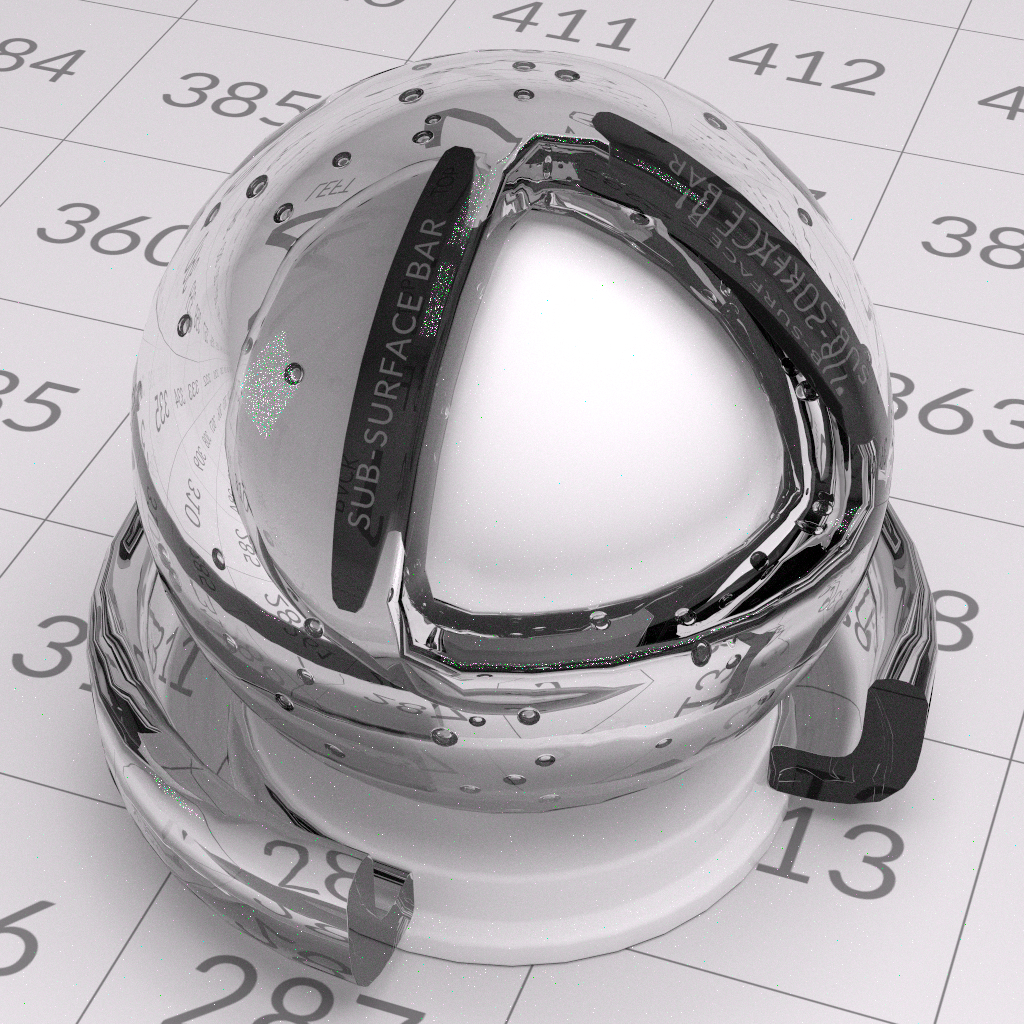
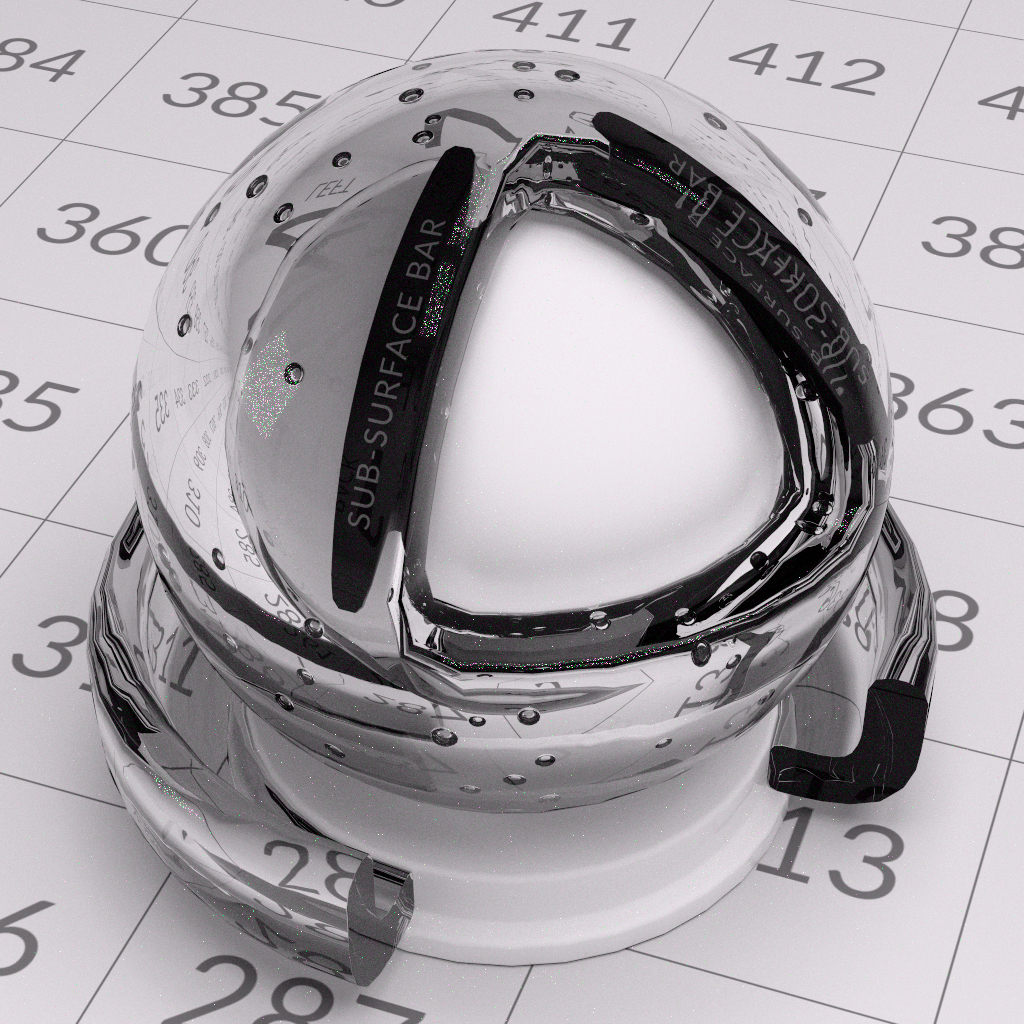
Color manage gallery output

diff --git a/tools/display_transform.cpp b/tools/display_transform.cpp
@@ -1,0 +1,100 @@
+#include "hdcodex/core/display_transform.h"
+
+#include "pxr/imaging/hio/image.h"
+#include "pxr/imaging/hio/types.h"
+
+#include <algorithm>
+#include <array>
+#include <cmath>
+#include <cstdint>
+#include <exception>
+#include <iostream>
+#include <string>
+#include <vector>
+
+PXR_NAMESPACE_USING_DIRECTIVE
+
+namespace {
+
+int Usage()
+{
+    std::cerr << "Usage: hdCodexDisplayTransform <linear-input> <display-output> "
+                 "[--exposure <stops>]\n";
+    return 2;
+}
+
+} // namespace
+
+int main(int argc, char** argv)
+try {
+    if (argc != 3 && argc != 5) return Usage();
+    float exposure = 0.0F;
+    if (argc == 5) {
+        if (std::string(argv[3]) != "--exposure") return Usage();
+        exposure = std::stof(argv[4]);
+        if (!std::isfinite(exposure) || exposure < -20.0F || exposure > 20.0F) {
+            std::cerr << "Exposure must be finite and between -20 and 20 stops.\n";
+            return 2;
+        }
+    }
+
+    const HioImageSharedPtr input = HioImage::OpenForReading(
+        argv[1], 0, 0, HioImage::Raw, false);
+    if (!input || input->GetWidth() <= 0 || input->GetHeight() <= 0) {
+        std::cerr << "Could not open linear input image: " << argv[1] << '\n';
+        return 1;
+    }
+
+    const int width = input->GetWidth();
+    const int height = input->GetHeight();
+    const std::size_t pixelCount =
+        static_cast<std::size_t>(width) * static_cast<std::size_t>(height);
+    std::vector<float> linear(pixelCount * 4U);
+    HioImage::StorageSpec inputStorage;
+    inputStorage.width = width;
+    inputStorage.height = height;
+    inputStorage.depth = 1;
+    inputStorage.format = HioFormatFloat32Vec4;
+    inputStorage.flipped = false;
+    inputStorage.data = linear.data();
+    if (!input->Read(inputStorage)) {
+        std::cerr << "Could not decode linear input image: " << argv[1] << '\n';
+        return 1;
+    }
+
+    std::vector<std::uint8_t> display(pixelCount * 4U);
+    for (std::size_t pixel = 0; pixel < pixelCount; ++pixel) {
+        const auto encoded = hdcodex::SceneLinearToDisplaySrgb({
+            linear[pixel * 4U], linear[pixel * 4U + 1U],
+            linear[pixel * 4U + 2U]}, exposure);
+        for (std::size_t channel = 0; channel < 3U; ++channel) {
+            display[pixel * 4U + channel] = static_cast<std::uint8_t>(
+                std::lround(std::clamp(encoded[channel], 0.0F, 1.0F) * 255.0F));
+        }
+        const float alpha = std::isfinite(linear[pixel * 4U + 3U])
+            ? linear[pixel * 4U + 3U] : 1.0F;
+        display[pixel * 4U + 3U] = static_cast<std::uint8_t>(
+            std::lround(std::clamp(alpha, 0.0F, 1.0F) * 255.0F));
+    }
+
+    const HioImageSharedPtr output = HioImage::OpenForWriting(argv[2]);
+    if (!output) {
+        std::cerr << "Could not open display output image: " << argv[2] << '\n';
+        return 1;
+    }
+    HioImage::StorageSpec outputStorage;
+    outputStorage.width = width;
+    outputStorage.height = height;
+    outputStorage.depth = 1;
+    outputStorage.format = HioFormatUNorm8Vec4;
+    outputStorage.flipped = false;
+    outputStorage.data = display.data();
+    if (!output->Write(outputStorage)) {
+        std::cerr << "Could not write display output image: " << argv[2] << '\n';
+        return 1;
+    }
+    return 0;
+} catch (const std::exception& error) {
+    std::cerr << "Display transform failed: " << error.what() << '\n';
+    return 1;
+}

diff --git a/src/core/display_transform.cpp b/src/core/display_transform.cpp
@@ -1,0 +1,67 @@
+#include "hdcodex/core/display_transform.h"
+
+#include <algorithm>
+#include <cmath>
+
+namespace hdcodex {
+namespace {
+
+float Sanitize(float value) noexcept
+{
+    return std::isfinite(value) ? std::max(value, 0.0F) : 0.0F;
+}
+
+std::array<float, 3> NeutralToneMap(std::array<float, 3> color) noexcept
+{
+    constexpr float kStartCompression = 0.76F;
+    constexpr float kDesaturation = 0.15F;
+
+    const float darkest = std::min({color[0], color[1], color[2]});
+    const float offset = darkest < 0.08F
+        ? darkest - 6.25F * darkest * darkest
+        : 0.04F;
+    for (float& channel : color) channel -= offset;
+
+    const float peak = std::max({color[0], color[1], color[2]});
+    if (peak < kStartCompression) return color;
+
+    constexpr float distanceToWhite = 1.0F - kStartCompression;
+    const float compressedPeak = 1.0F - distanceToWhite * distanceToWhite /
+        (peak + distanceToWhite - kStartCompression);
+    const float scale = compressedPeak / peak;
+    const float desaturation = 1.0F - 1.0F /
+        (kDesaturation * (peak - compressedPeak) + 1.0F);
+    for (float& channel : color) {
+        channel = std::lerp(channel * scale, compressedPeak, desaturation);
+    }
+    return color;
+}
+
+float LinearToSrgb(float value) noexcept
+{
+    value = std::clamp(value, 0.0F, 1.0F);
+    return value <= 0.0031308F
+        ? value * 12.92F
+        : 1.055F * std::pow(value, 1.0F / 2.4F) - 0.055F;
+}
+
+} // namespace
+
+std::array<float, 3> SceneLinearToDisplaySrgb(
+    const std::array<float, 3>& color,
+    float exposureStops) noexcept
+{
+    exposureStops = std::isfinite(exposureStops)
+        ? std::clamp(exposureStops, -20.0F, 20.0F)
+        : 0.0F;
+    const float exposure = std::exp2(exposureStops);
+    std::array<float, 3> mapped{
+        Sanitize(color[0]) * exposure,
+        Sanitize(color[1]) * exposure,
+        Sanitize(color[2]) * exposure};
+    mapped = NeutralToneMap(mapped);
+    for (float& channel : mapped) channel = LinearToSrgb(channel);
+    return mapped;
+}
+
+} // namespace hdcodex

diff --git a/tests/core_tests.cpp b/tests/core_tests.cpp
@@ -1,3 +1,4 @@
+#include "hdcodex/core/display_transform.h"
 #include "hdcodex/core/hash.h"
 #include "hdcodex/core/shading_mode.h"
 #include "hdcodex/core/shader_cache.h"
@@ -6,6 +7,7 @@
 #include <array>
 #include <filesystem>
 #include <iostream>
+#include <limits>
 #include <stdexcept>
 #include <string>
 #include <utility>
@@ -50,6 +52,31 @@ void TestShadingModes()
             "modular shading mode name changed");
     Require(hdcodex::ShadingModeName(ShadingMode::RasterPreview) == "raster",
             "raster shading mode name changed");
+}
+
+void TestDisplayTransform()
+{
+    const auto black = hdcodex::SceneLinearToDisplaySrgb({0.0F, 0.0F, 0.0F});
+    Require(black == std::array<float, 3>{0.0F, 0.0F, 0.0F},
+            "display transform lifted black");
+
+    const auto middleGray =
+        hdcodex::SceneLinearToDisplaySrgb({0.18F, 0.18F, 0.18F});
+    Require(middleGray[0] > 0.40F && middleGray[0] < 0.42F &&
+                middleGray[0] == middleGray[1] &&
+                middleGray[1] == middleGray[2],
+            "display transform did not encode linear middle gray as sRGB");
+
+    const auto hdr = hdcodex::SceneLinearToDisplaySrgb({8.0F, 2.0F, 0.5F});
+    Require(hdr[0] <= 1.0F && hdr[0] > hdr[1] && hdr[1] > hdr[2] &&
+                hdr[2] >= 0.0F,
+            "neutral tone map clipped or reordered HDR color");
+
+    const auto sanitized = hdcodex::SceneLinearToDisplaySrgb(
+        {-1.0F, std::numeric_limits<float>::infinity(),
+         std::numeric_limits<float>::quiet_NaN()});
+    Require(sanitized == std::array<float, 3>{0.0F, 0.0F, 0.0F},
+            "display transform did not sanitize invalid radiance");
 }
 
 void TestCache()
@@ -257,6 +284,7 @@ int main()
 {
     try {
         TestSha256();
+        TestDisplayTransform();
         TestShadingModes();
         TestCache();
         TestVersionedScene();

diff --git a/include/hdcodex/core/display_transform.h b/include/hdcodex/core/display_transform.h
@@ -1,0 +1,15 @@
+#pragma once
+
+#include <array>
+
+namespace hdcodex {
+
+// Converts scene-linear Rec.709/sRGB primaries to display-encoded sRGB.
+// The neutral highlight compression is applied before the sRGB transfer
+// function so HDR render outputs remain unclipped without changing the
+// renderer's linear AOV contract.
+std::array<float, 3> SceneLinearToDisplaySrgb(
+    const std::array<float, 3>& color,
+    float exposureStops = 0.0F) noexcept;
+
+} // namespace hdcodex

diff --git a/gallery.md b/gallery.md
@@ -4,6 +4,12 @@
 These images are versioned visual baselines, not golden-reference renders.
 The checked-in baselines are 1024 pixels wide and use 1024 spatial samples to
 reduce residual path-tracing noise. They render in 32 progressive updates.
+`render_gallery.bat` preserves the renderer's scene-linear output as temporary
+EXRs under `build/gallery-linear`, then writes these display JPEGs through a
+neutral HDR highlight compressor and the standard sRGB transfer function. An
+optional `HDCODEX_GALLERY_EXPOSURE` value sets display exposure in stops; the
+versioned baselines use the default zero. Run the batch to reproduce the final
+JPEGs; the per-scene commands below show the underlying render invocations.
 The StandardShaderBall variants exercise OpenPBR glass, metal, subsurface, and
 image-texture lowering. KitchenSet remains in its authored Z-up coordinates and
 exercises the unbound-mesh `displayColor` fallback. CollectiveProject exercises
@@ -22,7 +28,7 @@ provenance diagnostics.
 ```cmd
 set "HDCODEX_SAMPLES_PER_PIXEL=1024"
 set "HDCODEX_SAMPLES_PER_UPDATE=32"
-.\render_codex.bat --imageWidth 1024 --camera PhysCamera001 gallery\intel_sponza.usda gallery\intel_sponza.jpg
+.\render_codex.bat --imageWidth 1024 --colorCorrectionMode disabled --camera PhysCamera001 gallery\intel_sponza.usda build\gallery-linear\intel_sponza.exr
 ```
 
 ![Intel Sponza Base Scene](gallery/intel_sponza.jpg)
@@ -34,7 +40,7 @@ set "HDCODEX_SAMPLES_PER_UPDATE=32"
 ```cmd
 set "HDCODEX_SAMPLES_PER_PIXEL=1024"
 set "HDCODEX_SAMPLES_PER_UPDATE=32"
-.\render_codex.bat --imageWidth 1024 --camera renderCam gallery\chess_board.usda gallery\chess_board.jpg
+.\render_codex.bat --imageWidth 1024 --colorCorrectionMode disabled --camera renderCam gallery\chess_board.usda build\gallery-linear\chess_board.exr
 ```
 
 ![OpenChessSet](gallery/chess_board.jpg)
@@ -46,7 +52,7 @@ set "HDCODEX_SAMPLES_PER_UPDATE=32"
 ```cmd
 set "HDCODEX_SAMPLES_PER_PIXEL=1024"
 set "HDCODEX_SAMPLES_PER_UPDATE=32"
-.\render_codex.bat --imageWidth 1024 --camera camera gallery\shader_ball_bubblegum.usda gallery\shader_ball_bubblegum.jpg
+.\render_codex.bat --imageWidth 1024 --colorCorrectionMode disabled --camera camera gallery\shader_ball_bubblegum.usda build\gallery-linear\shader_ball_bubblegum.exr
 ```
 
 ![StandardShaderBall BubbleGum](gallery/shader_ball_bubblegum.jpg)
@@ -58,7 +64,7 @@ set "HDCODEX_SAMPLES_PER_UPDATE=32"
 ```cmd
 set "HDCODEX_SAMPLES_PER_PIXEL=1024"
 set "HDCODEX_SAMPLES_PER_UPDATE=32"
-.\render_codex.bat --imageWidth 1024 --camera camera gallery\shader_ball_glass.usda gallery\shader_ball_glass.jpg
+.\render_codex.bat --imageWidth 1024 --colorCorrectionMode disabled --camera camera gallery\shader_ball_glass.usda build\gallery-linear\shader_ball_glass.exr
 ```
 
 ![StandardShaderBall Glass](gallery/shader_ball_glass.jpg)
@@ -70,7 +76,7 @@ set "HDCODEX_SAMPLES_PER_UPDATE=32"
 ```cmd
 set "HDCODEX_SAMPLES_PER_PIXEL=1024"
 set "HDCODEX_SAMPLES_PER_UPDATE=32"
-.\render_codex.bat --imageWidth 1024 --camera camera gallery\shader_ball_gold.usda gallery\shader_ball_gold.jpg
+.\render_codex.bat --imageWidth 1024 --colorCorrectionMode disabled --camera camera gallery\shader_ball_gold.usda build\gallery-linear\shader_ball_gold.exr
 ```
 
 ![StandardShaderBall Gold](gallery/shader_ball_gold.jpg)
@@ -82,7 +88,7 @@ set "HDCODEX_SAMPLES_PER_UPDATE=32"
 ```cmd
 set "HDCODEX_SAMPLES_PER_PIXEL=1024"
 set "HDCODEX_SAMPLES_PER_UPDATE=32"
-.\render_codex.bat --imageWidth 1024 --camera renderCam gallery\pixar_kitchen.usda gallery\pixar_kitchen.jpg
+.\render_codex.bat --imageWidth 1024 --colorCorrectionMode disabled --camera renderCam gallery\pixar_kitchen.usda build\gallery-linear\pixar_kitchen.exr
 ```
 
 ![Pixar's KitchenSet](gallery/pixar_kitchen.jpg)
@@ -94,7 +100,7 @@ set "HDCODEX_SAMPLES_PER_UPDATE=32"
 ```cmd
 set "HDCODEX_SAMPLES_PER_PIXEL=1024"
 set "HDCODEX_SAMPLES_PER_UPDATE=32"
-.\render_codex.bat --imageWidth 1024 --purposes render --camera mono gallery\collectiveproject001.usda gallery\collectiveproject001.jpg
+.\render_codex.bat --imageWidth 1024 --colorCorrectionMode disabled --purposes render --camera mono gallery\collectiveproject001.usda build\gallery-linear\collectiveproject001.exr
 ```
 
 ![Collective Project 001](gallery/collectiveproject001.jpg)
@@ -110,7 +116,7 @@ intentionally diagnosed and omitted.
 ```cmd
 set "HDCODEX_SAMPLES_PER_PIXEL=1024"
 set "HDCODEX_SAMPLES_PER_UPDATE=32"
-.\render_codex.bat --imageWidth 1024 --purposes render --camera renderCam_mainCU gallery\openpbr_playground.usda gallery\openpbr_playground.jpg
+.\render_codex.bat --imageWidth 1024 --colorCorrectionMode disabled --purposes render --camera renderCam_mainCU gallery\openpbr_playground.usda build\gallery-linear\openpbr_playground.exr
 ```
 
 ![OpenPBR Playground](gallery/openpbr_playground.jpg)

diff --git a/README.md b/README.md
@@ -205,9 +205,13 @@ The images in `gallery/` are checked-in visual baselines. They cover:
 - Collective Project 001 for UsdSkel deformation and mesh-subset materials.
 
 Run `render_gallery.bat` to regenerate every baseline at 1024 pixels wide and
-1024 samples per pixel. Record wall time in `gallery.md`, and commit both the
-changed images and timing table whenever an intentional renderer change affects
-output.
+1024 samples per pixel. The renderer remains scene-linear: the batch records
+temporary EXRs beneath `build/gallery-linear`, then applies the repository's
+neutral highlight compression and sRGB display encoding when writing the
+checked-in JPEGs. `HDCODEX_GALLERY_EXPOSURE` optionally adjusts display exposure
+in stops without changing transport. Record wall time in `gallery.md`, and
+commit both the changed images and timing table whenever an intentional renderer
+change affects output.
 
 ## License
 
